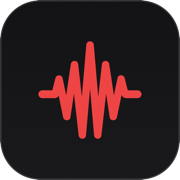
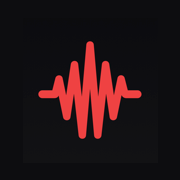
[JackMate] docs: publish site (quarto 1.10.18)

Changed region(s): [[0.0, 0.0, 1.0, 1.0]]

diff --git a/guide/alternatives.html b/guide/alternatives.html
@@ -81,6 +81,15 @@ ul.task-list li input[type="checkbox"] {
 <link rel="stylesheet" href="https://cdnjs.cloudflare.com/ajax/libs/font-awesome/6.7.2/css/all.min.css" crossorigin="anonymous" referrerpolicy="no-referrer">
 
 
+<!-- Icons: iOS home-screen + crisp 32px tab favicon (Quarto emits the main favicon). -->
+<link rel="apple-touch-icon" sizes="180x180" href="../assets/apple-touch-icon.png">
+<link rel="icon" type="image/png" sizes="192x192" href="../assets/favicon-192x192.png">
+<link rel="icon" type="image/png" sizes="32x32" href="../assets/favicon-32x32.png">
+<link rel="icon" type="image/png" sizes="16x16" href="../assets/favicon-16x16.png">
+<link rel="manifest" href="../assets/site.webmanifest">
+<link rel="shortcut icon" href="favicon.ico">
+
+
 <!-- Structured data (schema.org) — tells search engines this is a free macOS app,
      making it eligible for richer results. -->
 <script type="application/ld+json">
@@ -115,8 +124,6 @@ ul.task-list li input[type="checkbox"] {
 <meta property="og:image" content="https://jackmate.app/assets/og-image.jpg">
 <meta property="og:site_name" content="JackMate">
 <link rel="canonical" href="https://jackmate.app/guide/alternatives.html">
-<link rel="apple-touch-icon" sizes="180x180" href="https://jackmate.app/assets/apple-touch-icon.png">
-<link rel="icon" type="image/png" sizes="32x32" href="https://jackmate.app/assets/favicon-32x32.png">
 <meta property="og:url" content="https://jackmate.app/guide/alternatives.html">
 <meta name="twitter:title" content="Alternatives – JackMate">
 <meta name="twitter:description" content="How JackMate compares to QjackCtl, Catia, Carla and other JACK tools, a native macOS GUI for the JACK Audio Connection Kit.">

diff --git a/guide/transport.html b/guide/transport.html
@@ -84,6 +84,15 @@ ul.task-list li input[type="checkbox"] {
 <link rel="stylesheet" href="https://cdnjs.cloudflare.com/ajax/libs/font-awesome/6.7.2/css/all.min.css" crossorigin="anonymous" referrerpolicy="no-referrer">
 
 
+<!-- Icons: iOS home-screen + crisp 32px tab favicon (Quarto emits the main favicon). -->
+<link rel="apple-touch-icon" sizes="180x180" href="../assets/apple-touch-icon.png">
+<link rel="icon" type="image/png" sizes="192x192" href="../assets/favicon-192x192.png">
+<link rel="icon" type="image/png" sizes="32x32" href="../assets/favicon-32x32.png">
+<link rel="icon" type="image/png" sizes="16x16" href="../assets/favicon-16x16.png">
+<link rel="manifest" href="../assets/site.webmanifest">
+<link rel="shortcut icon" href="favicon.ico">
+
+
 <!-- Structured data (schema.org) — tells search engines this is a free macOS app,
      making it eligible for richer results. -->
 <script type="application/ld+json">
@@ -118,8 +127,6 @@ ul.task-list li input[type="checkbox"] {
 <meta property="og:image" content="https://jackmate.app/assets/og-image.jpg">
 <meta property="og:site_name" content="JackMate">
 <link rel="canonical" href="https://jackmate.app/guide/transport.html">
-<link rel="apple-touch-icon" sizes="180x180" href="https://jackmate.app/assets/apple-touch-icon.png">
-<link rel="icon" type="image/png" sizes="32x32" href="https://jackmate.app/assets/favicon-32x32.png">
 <meta property="og:url" content="https://jackmate.app/guide/transport.html">
 <meta property="og:image:alt" content="Patchbay view with the transport bar visible: play/pause/stop buttons, position display (BBT or timecode), BPM field, timebase master indicator.">
 <meta property="og:image:height" content="630">

diff --git a/install-jack-macos.html b/install-jack-macos.html
@@ -114,6 +114,15 @@ pre > code.sourceCode > span > a:first-child::before { text-decoration: underlin
 <link rel="stylesheet" href="https://cdnjs.cloudflare.com/ajax/libs/font-awesome/6.7.2/css/all.min.css" crossorigin="anonymous" referrerpolicy="no-referrer">
 
 
+<!-- Icons: iOS home-screen + crisp 32px tab favicon (Quarto emits the main favicon). -->
+<link rel="apple-touch-icon" sizes="180x180" href="./assets/apple-touch-icon.png">
+<link rel="icon" type="image/png" sizes="192x192" href="./assets/favicon-192x192.png">
+<link rel="icon" type="image/png" sizes="32x32" href="./assets/favicon-32x32.png">
+<link rel="icon" type="image/png" sizes="16x16" href="./assets/favicon-16x16.png">
+<link rel="manifest" href="./assets/site.webmanifest">
+<link rel="shortcut icon" href="favicon.ico">
+
+
 <!-- Structured data (schema.org) — tells search engines this is a free macOS app,
      making it eligible for richer results. -->
 <script type="application/ld+json">
@@ -148,8 +157,6 @@ pre > code.sourceCode > span > a:first-child::before { text-decoration: underlin
 <meta property="og:image" content="https://jackmate.app/assets/og-image.jpg">
 <meta property="og:site_name" content="JackMate">
 <link rel="canonical" href="https://jackmate.app/install-jack-macos.html">
-<link rel="apple-touch-icon" sizes="180x180" href="https://jackmate.app/assets/apple-touch-icon.png">
-<link rel="icon" type="image/png" sizes="32x32" href="https://jackmate.app/assets/favicon-32x32.png">
 <meta property="og:url" content="https://jackmate.app/install-jack-macos.html">
 <meta property="og:image:alt" content="JackMate">
 <meta property="og:image:height" content="630">

diff --git a/guide/patchbay.html b/guide/patchbay.html
@@ -84,6 +84,15 @@ ul.task-list li input[type="checkbox"] {
 <link rel="stylesheet" href="https://cdnjs.cloudflare.com/ajax/libs/font-awesome/6.7.2/css/all.min.css" crossorigin="anonymous" referrerpolicy="no-referrer">
 
 
+<!-- Icons: iOS home-screen + crisp 32px tab favicon (Quarto emits the main favicon). -->
+<link rel="apple-touch-icon" sizes="180x180" href="../assets/apple-touch-icon.png">
+<link rel="icon" type="image/png" sizes="192x192" href="../assets/favicon-192x192.png">
+<link rel="icon" type="image/png" sizes="32x32" href="../assets/favicon-32x32.png">
+<link rel="icon" type="image/png" sizes="16x16" href="../assets/favicon-16x16.png">
+<link rel="manifest" href="../assets/site.webmanifest">
+<link rel="shortcut icon" href="favicon.ico">
+
+
 <!-- Structured data (schema.org) — tells search engines this is a free macOS app,
      making it eligible for richer results. -->
 <script type="application/ld+json">
@@ -118,8 +127,6 @@ ul.task-list li input[type="checkbox"] {
 <meta property="og:image" content="https://jackmate.app/assets/og-image.jpg">
 <meta property="og:site_name" content="JackMate">
 <link rel="canonical" href="https://jackmate.app/guide/patchbay.html">
-<link rel="apple-touch-icon" sizes="180x180" href="https://jackmate.app/assets/apple-touch-icon.png">
-<link rel="icon" type="image/png" sizes="32x32" href="https://jackmate.app/assets/favicon-32x32.png">
 <meta property="og:url" content="https://jackmate.app/guide/patchbay.html">
 <meta property="og:image:alt" content="JackMate window maximised in Patchbay view. Several nodes visible">
 <meta property="og:image:height" content="630">

diff --git a/guide/menubar.html b/guide/menubar.html
@@ -84,6 +84,15 @@ ul.task-list li input[type="checkbox"] {
 <link rel="stylesheet" href="https://cdnjs.cloudflare.com/ajax/libs/font-awesome/6.7.2/css/all.min.css" crossorigin="anonymous" referrerpolicy="no-referrer">
 
 
+<!-- Icons: iOS home-screen + crisp 32px tab favicon (Quarto emits the main favicon). -->
+<link rel="apple-touch-icon" sizes="180x180" href="../assets/apple-touch-icon.png">
+<link rel="icon" type="image/png" sizes="192x192" href="../assets/favicon-192x192.png">
+<link rel="icon" type="image/png" sizes="32x32" href="../assets/favicon-32x32.png">
+<link rel="icon" type="image/png" sizes="16x16" href="../assets/favicon-16x16.png">
+<link rel="manifest" href="../assets/site.webmanifest">
+<link rel="shortcut icon" href="favicon.ico">
+
+
 <!-- Structured data (schema.org) — tells search engines this is a free macOS app,
      making it eligible for richer results. -->
 <script type="application/ld+json">
@@ -118,8 +127,6 @@ ul.task-list li input[type="checkbox"] {
 <meta property="og:image" content="https://jackmate.app/assets/og-image.jpg">
 <meta property="og:site_name" content="JackMate">
 <link rel="canonical" href="https://jackmate.app/guide/menubar.html">
-<link rel="apple-touch-icon" sizes="180x180" href="https://jackmate.app/assets/apple-touch-icon.png">
-<link rel="icon" type="image/png" sizes="32x32" href="https://jackmate.app/assets/favicon-32x32.png">
 <meta property="og:url" content="https://jackmate.app/guide/menubar.html">
 <meta property="og:image:alt" content="Click the JackMate icon in the macOS menu bar with Jack running.">
 <meta property="og:image:height" content="630">

diff --git a/guide/studios.html b/guide/studios.html
@@ -84,6 +84,15 @@ ul.task-list li input[type="checkbox"] {
 <link rel="stylesheet" href="https://cdnjs.cloudflare.com/ajax/libs/font-awesome/6.7.2/css/all.min.css" crossorigin="anonymous" referrerpolicy="no-referrer">
 
 
+<!-- Icons: iOS home-screen + crisp 32px tab favicon (Quarto emits the main favicon). -->
+<link rel="apple-touch-icon" sizes="180x180" href="../assets/apple-touch-icon.png">
+<link rel="icon" type="image/png" sizes="192x192" href="../assets/favicon-192x192.png">
+<link rel="icon" type="image/png" sizes="32x32" href="../assets/favicon-32x32.png">
+<link rel="icon" type="image/png" sizes="16x16" href="../assets/favicon-16x16.png">
+<link rel="manifest" href="../assets/site.webmanifest">
+<link rel="shortcut icon" href="favicon.ico">
+
+
 <!-- Structured data (schema.org) — tells search engines this is a free macOS app,
      making it eligible for richer results. -->
 <script type="application/ld+json">
@@ -118,8 +127,6 @@ ul.task-list li input[type="checkbox"] {
 <meta property="og:image" content="https://jackmate.app/assets/og-image.jpg">
 <meta property="og:site_name" content="JackMate">
 <link rel="canonical" href="https://jackmate.app/guide/studios.html">
-<link rel="apple-touch-icon" sizes="180x180" href="https://jackmate.app/assets/apple-touch-icon.png">
-<link rel="icon" type="image/png" sizes="32x32" href="https://jackmate.app/assets/favicon-32x32.png">
 <meta property="og:url" content="https://jackmate.app/guide/studios.html">
 <meta property="og:image:alt" content="Close-up on the STUDIOS section at the bottom of the sidebar">
 <meta property="og:image:height" content="630">

diff --git a/guide/configuration.html b/guide/configuration.html
@@ -84,6 +84,15 @@ ul.task-list li input[type="checkbox"] {
 <link rel="stylesheet" href="https://cdnjs.cloudflare.com/ajax/libs/font-awesome/6.7.2/css/all.min.css" crossorigin="anonymous" referrerpolicy="no-referrer">
 
 
+<!-- Icons: iOS home-screen + crisp 32px tab favicon (Quarto emits the main favicon). -->
+<link rel="apple-touch-icon" sizes="180x180" href="../assets/apple-touch-icon.png">
+<link rel="icon" type="image/png" sizes="192x192" href="../assets/favicon-192x192.png">
+<link rel="icon" type="image/png" sizes="32x32" href="../assets/favicon-32x32.png">
+<link rel="icon" type="image/png" sizes="16x16" href="../assets/favicon-16x16.png">
+<link rel="manifest" href="../assets/site.webmanifest">
+<link rel="shortcut icon" href="favicon.ico">
+
+
 <!-- Structured data (schema.org) — tells search engines this is a free macOS app,
      making it eligible for richer results. -->
 <script type="application/ld+json">
@@ -118,8 +127,6 @@ ul.task-list li input[type="checkbox"] {
 <meta property="og:image" content="https://jackmate.app/assets/og-image.jpg">
 <meta property="og:site_name" content="JackMate">
 <link rel="canonical" href="https://jackmate.app/guide/configuration.html">
-<link rel="apple-touch-icon" sizes="180x180" href="https://jackmate.app/assets/apple-touch-icon.png">
-<link rel="icon" type="image/png" sizes="32x32" href="https://jackmate.app/assets/favicon-32x32.png">
 <meta property="og:url" content="https://jackmate.app/guide/configuration.html">
 <meta property="og:image:alt" content="JackMate window in Configuration view">
 <meta property="og:image:height" content="630">

diff --git a/changelog.html b/changelog.html
@@ -78,6 +78,15 @@ ul.task-list li input[type="checkbox"] {
 <link rel="stylesheet" href="https://cdnjs.cloudflare.com/ajax/libs/font-awesome/6.7.2/css/all.min.css" crossorigin="anonymous" referrerpolicy="no-referrer">
 
 
+<!-- Icons: iOS home-screen + crisp 32px tab favicon (Quarto emits the main favicon). -->
+<link rel="apple-touch-icon" sizes="180x180" href="./assets/apple-touch-icon.png">
+<link rel="icon" type="image/png" sizes="192x192" href="./assets/favicon-192x192.png">
+<link rel="icon" type="image/png" sizes="32x32" href="./assets/favicon-32x32.png">
+<link rel="icon" type="image/png" sizes="16x16" href="./assets/favicon-16x16.png">
+<link rel="manifest" href="./assets/site.webmanifest">
+<link rel="shortcut icon" href="favicon.ico">
+
+
 <!-- Structured data (schema.org) — tells search engines this is a free macOS app,
      making it eligible for richer results. -->
 <script type="application/ld+json">
@@ -112,8 +121,6 @@ ul.task-list li input[type="checkbox"] {
 <meta property="og:image" content="https://jackmate.app/assets/og-image.jpg">
 <meta property="og:site_name" content="JackMate">
 <link rel="canonical" href="https://jackmate.app/changelog.html">
-<link rel="apple-touch-icon" sizes="180x180" href="https://jackmate.app/assets/apple-touch-icon.png">
-<link rel="icon" type="image/png" sizes="32x32" href="https://jackmate.app/assets/favicon-32x32.png">
 <meta property="og:url" content="https://jackmate.app/changelog.html">
 <meta name="twitter:title" content="Changelog – JackMate">
 <meta name="twitter:description" content="Jack Audio server manager for macOS">

diff --git a/license.html b/license.html
@@ -78,6 +78,15 @@ ul.task-list li input[type="checkbox"] {
 <link rel="stylesheet" href="https://cdnjs.cloudflare.com/ajax/libs/font-awesome/6.7.2/css/all.min.css" crossorigin="anonymous" referrerpolicy="no-referrer">
 
 
+<!-- Icons: iOS home-screen + crisp 32px tab favicon (Quarto emits the main favicon). -->
+<link rel="apple-touch-icon" sizes="180x180" href="./assets/apple-touch-icon.png">
+<link rel="icon" type="image/png" sizes="192x192" href="./assets/favicon-192x192.png">
+<link rel="icon" type="image/png" sizes="32x32" href="./assets/favicon-32x32.png">
+<link rel="icon" type="image/png" sizes="16x16" href="./assets/favicon-16x16.png">
+<link rel="manifest" href="./assets/site.webmanifest">
+<link rel="shortcut icon" href="favicon.ico">
+
+
 <!-- Structured data (schema.org) — tells search engines this is a free macOS app,
      making it eligible for richer results. -->
 <script type="application/ld+json">
@@ -112,8 +121,6 @@ ul.task-list li input[type="checkbox"] {
 <meta property="og:image" content="https://jackmate.app/assets/og-image.jpg">
 <meta property="og:site_name" content="JackMate">
 <link rel="canonical" href="https://jackmate.app/license.html">
-<link rel="apple-touch-icon" sizes="180x180" href="https://jackmate.app/assets/apple-touch-icon.png">
-<link rel="icon" type="image/png" sizes="32x32" href="https://jackmate.app/assets/favicon-32x32.png">
 <meta property="og:url" content="https://jackmate.app/license.html">
 <meta name="twitter:title" content="License – JackMate">
 <meta name="twitter:description" content="Jack Audio server manager for macOS">

diff --git a/guide/jackmoebius.html b/guide/jackmoebius.html
@@ -84,6 +84,15 @@ ul.task-list li input[type="checkbox"] {
 <link rel="stylesheet" href="https://cdnjs.cloudflare.com/ajax/libs/font-awesome/6.7.2/css/all.min.css" crossorigin="anonymous" referrerpolicy="no-referrer">
 
 
+<!-- Icons: iOS home-screen + crisp 32px tab favicon (Quarto emits the main favicon). -->
+<link rel="apple-touch-icon" sizes="180x180" href="../assets/apple-touch-icon.png">
+<link rel="icon" type="image/png" sizes="192x192" href="../assets/favicon-192x192.png">
+<link rel="icon" type="image/png" sizes="32x32" href="../assets/favicon-32x32.png">
+<link rel="icon" type="image/png" sizes="16x16" href="../assets/favicon-16x16.png">
+<link rel="manifest" href="../assets/site.webmanifest">
+<link rel="shortcut icon" href="favicon.ico">
+
+
 <!-- Structured data (schema.org) — tells search engines this is a free macOS app,
      making it eligible for richer results. -->
 <script type="application/ld+json">
@@ -118,8 +127,6 @@ ul.task-list li input[type="checkbox"] {
 <meta property="og:image" content="https://jackmate.app/assets/og-image.jpg">
 <meta property="og:site_name" content="JackMate">
 <link rel="canonical" href="https://jackmate.app/guide/jackmoebius.html">
-<link rel="apple-touch-icon" sizes="180x180" href="https://jackmate.app/assets/apple-touch-icon.png">
-<link rel="icon" type="image/png" sizes="32x32" href="https://jackmate.app/assets/favicon-32x32.png">
 <meta property="og:url" content="https://jackmate.app/guide/jackmoebius.html">
 <meta property="og:image:alt" content="JackMoebius">
 <meta property="og:image:height" content="630">

diff --git a/sponsor.html b/sponsor.html
@@ -81,6 +81,15 @@ ul.task-list li input[type="checkbox"] {
 <link rel="stylesheet" href="https://cdnjs.cloudflare.com/ajax/libs/font-awesome/6.7.2/css/all.min.css" crossorigin="anonymous" referrerpolicy="no-referrer">
 
 
+<!-- Icons: iOS home-screen + crisp 32px tab favicon (Quarto emits the main favicon). -->
+<link rel="apple-touch-icon" sizes="180x180" href="./assets/apple-touch-icon.png">
+<link rel="icon" type="image/png" sizes="192x192" href="./assets/favicon-192x192.png">
+<link rel="icon" type="image/png" sizes="32x32" href="./assets/favicon-32x32.png">
+<link rel="icon" type="image/png" sizes="16x16" href="./assets/favicon-16x16.png">
+<link rel="manifest" href="./assets/site.webmanifest">
+<link rel="shortcut icon" href="favicon.ico">
+
+
 <!-- Structured data (schema.org) — tells search engines this is a free macOS app,
      making it eligible for richer results. -->
 <script type="application/ld+json">
@@ -115,8 +124,6 @@ ul.task-list li input[type="checkbox"] {
 <meta property="og:image" content="https://jackmate.app/assets/og-image.jpg">
 <meta property="og:site_name" content="JackMate">
 <link rel="canonical" href="https://jackmate.app/sponsor.html">
-<link rel="apple-touch-icon" sizes="180x180" href="https://jackmate.app/assets/apple-touch-icon.png">
-<link rel="icon" type="image/png" sizes="32x32" href="https://jackmate.app/assets/favicon-32x32.png">
 <meta property="og:url" content="https://jackmate.app/sponsor.html">
 <meta property="og:image:alt" content="">
 <meta name="twitter:title" content="Sponsor – JackMate">

diff --git a/index.html b/index.html
@@ -84,6 +84,15 @@ ul.task-list li input[type="checkbox"] {
 <link rel="stylesheet" href="https://cdnjs.cloudflare.com/ajax/libs/font-awesome/6.7.2/css/all.min.css" crossorigin="anonymous" referrerpolicy="no-referrer">
 
 
+<!-- Icons: iOS home-screen + crisp 32px tab favicon (Quarto emits the main favicon). -->
+<link rel="apple-touch-icon" sizes="180x180" href="./assets/apple-touch-icon.png">
+<link rel="icon" type="image/png" sizes="192x192" href="./assets/favicon-192x192.png">
+<link rel="icon" type="image/png" sizes="32x32" href="./assets/favicon-32x32.png">
+<link rel="icon" type="image/png" sizes="16x16" href="./assets/favicon-16x16.png">
+<link rel="manifest" href="./assets/site.webmanifest">
+<link rel="shortcut icon" href="favicon.ico">
+
+
 <!-- Structured data (schema.org) — tells search engines this is a free macOS app,
      making it eligible for richer results. -->
 <script type="application/ld+json">
@@ -118,8 +127,6 @@ ul.task-list li input[type="checkbox"] {
 <meta property="og:image" content="https://jackmate.app/assets/og-image.jpg">
 <meta property="og:site_name" content="JackMate">
 <link rel="canonical" href="https://jackmate.app/">
-<link rel="apple-touch-icon" sizes="180x180" href="https://jackmate.app/assets/apple-touch-icon.png">
-<link rel="icon" type="image/png" sizes="32x32" href="https://jackmate.app/assets/favicon-32x32.png">
 <meta property="og:url" content="https://jackmate.app/">
 <meta property="og:image:alt" content="JackMate">
 <meta property="og:image:height" content="630">
